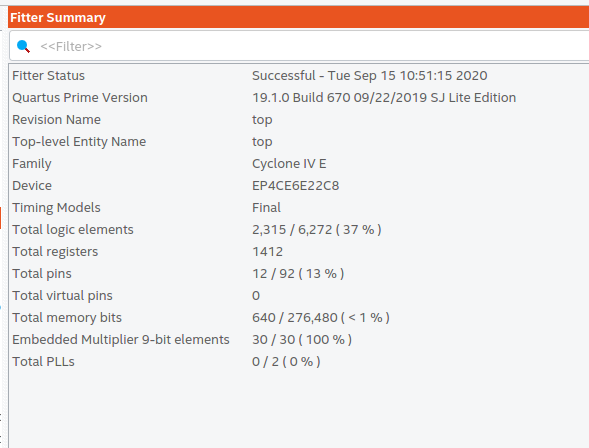
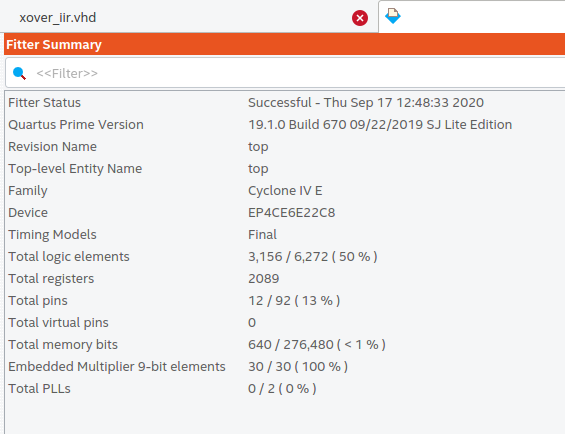
updated to Linkwitz-Riley 4th order

Changed region(s): [[0.0, 0.0, 1.0, 1.0]]

diff --git a/esp32_tas5753/biquad.h b/esp32_tas5753/biquad.h
@@ -2,7 +2,7 @@
 #define BIQUAD_H_
 
 
-#define BIQUAD_CROSSOVER_FREQ_HZ  330.0
+#define BIQUAD_CROSSOVER_FREQ_HZ  3400.0
 #define BIQUAD_Q                  0.707
 
 #define PIN_FPGA_CS         22

diff --git a/README.md b/README.md
@@ -4,13 +4,23 @@
 a master driving MCK, BCK and WS clocks.
 * FPGA implements an I2S slave interface and stereo 2-way crossover filters. It generates two I2S data output streams that drive low-pass and 
 high-pass channels on two TAS5753MD stereo I2S power amplifiers. 
+* Crossover filters are 4th order Linkwitz-Riley, implemented as cascaded 2nd order Butterworth filters.
+
+* Using Octave to get the 2nd order butterworth filter coefficients
+
+<img src="octave_filter.png" /> 
+
+* Implementation in direct form I to avoid overflow issues, at cost of more delay element memory usage.
+
+<img src="crossover_filter.png" />
+
 * FPGA audio processing modules are clocked by the external MCK. Slave SPI interface and coefficient loader modules use the on-board
 50MHz system clock.
 * Implemented in VHDL on Altera Cyclone IV EP4CE6E22. I increased the filter coefficient precision from 2.30 to 2.38 as I want to
-be able to use the crossover biquad filters at lower frequencies e.g. 300Hz (sub-woofer crossover). 
-In this case some of the filter coefficients are small enough to benefit from the increased fractional resolution. 
+be able to use the crossover filters at lower Fc/Fs values, e.g. for a sub-woofer crossover at ~300Hz. 
+In this case some of the filter coefficients are small enough to cause filter instability due to fixed-point arithmetic coefficient quantization issues, so require increased fractional resolution.
 
-<img src="xover_3300Hz.png" />
+<img src="xover_3400Hz.png" />
 
 <img src="xover_330Hz.png" />
 
@@ -39,6 +49,12 @@ The ESP32 code currently only reads wav/mp3 files encoded with 16bit data at 44.
 * [FPGA Biquad IIR Filters](https://www.youtube.com/watch?v=eE6Qwv997cs)
 * [ESP32 SD I2S Audio](https://github.com/schreibfaul1/ESP32-audioI2S)
 
+# Useful links
+
+* [IIR filter design](https://www.dsprelated.com/showarticle/1137.php)
+* [Biquad implementation](https://dspguru.com/dsp/howtos/implement-iir-filters/)
+* [Biquad filter formulae](https://www.earlevel.com/main/2011/01/02/biquad-formulas/)
+
 # Prototype
 
 Top side of prototype board 
@@ -47,7 +63,7 @@ Top side of prototype board
 * Rotary encoder for volume control
 * 5V dc-dc converter and 3.3V LDO regulator module
 * Stacked TAS5753MD I2S power amplifiers
-* Testing now with a 19.5V@4.7A laptop power supply. The TAS5753MD power amplifier is rated for 26V, and the 
+* Testing now with a 19.5V 4.7A laptop power supply. The TAS5753MD power amplifier is rated for 26V, and the 
 DC-DC converter can handle input voltages up to 32V.
 
 <img src="prototype_esp32_tas5753md.jpg" />
@@ -57,9 +73,10 @@ Bottom side of prototype board
 
 <img src="prototype_fpga.jpg" />
 
-When testing crossover at Fc=3300Hz, the sub-woofers are disconnected and the amplifiers drive the mid-woofers and tweeters.
-When testing crossover at Fc=330Hz, I use a passive LC crossover for the
-mid-woofer and tweeters, and the amplifiers drive the sub-woofer and LC crossover.
+When testing the crossover at Fc=3400Hz, the sub-woofers are disconnected. The TAS5753MD amplifiers drive the mid-woofers and tweeters.
+
+When testing the crossover at Fc=330Hz, I use a passive LC crossover circuit to drive the
+mid-woofer and tweeters. The TAS5753MD amplifiers drive the sub-woofers and LC crossover inputs.
 
 <img src="prototype_speakers.jpg" />
 
